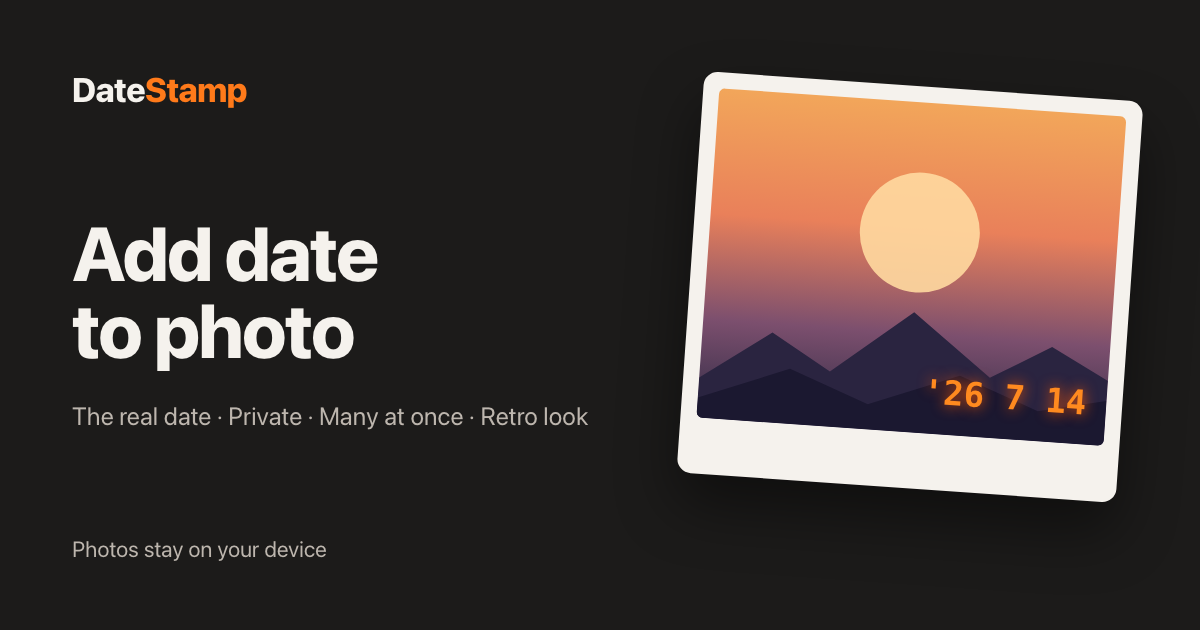
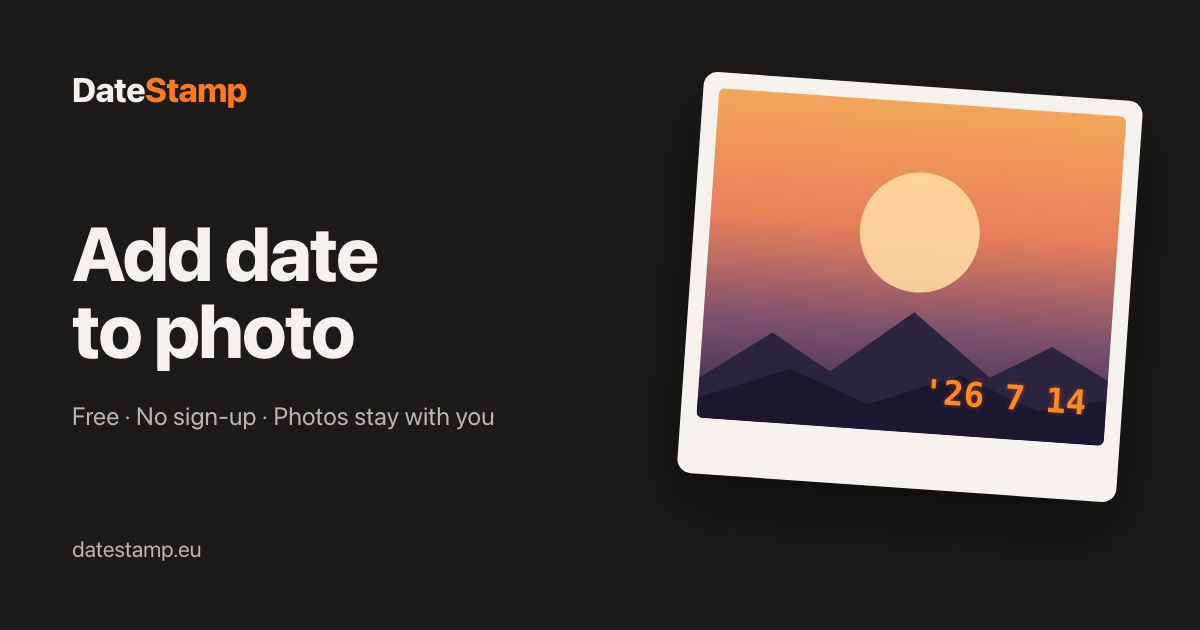
The share pictures show the current facts and the domain instead of repeating the privacy line

Changed region(s): [[0.0617, 0.6333, 0.4933, 0.6937], [0.0617, 0.8444, 0.2775, 0.9048], [0.7708, 0.6032, 0.925, 0.6635]]

diff --git a/CLAUDE.md b/CLAUDE.md
@@ -156,7 +156,7 @@ Options are remembered in `localStorage` (`datestamp:options`). Every access is 
 - **Titles ≤ 60 characters, descriptions 90–160** (a unit test enforces it in every locale): the search phrase first, then the benefit, then `| DateStamp`.
 - **Head (Base.astro):** canonical, hreflang for every locale + x-default, `robots max-image-preview:large`, Open Graph (site name, `og:locale` with region from `ogLocales`, alternates, 1200×630 image + alt), Twitter `summary_large_image`, icons (SVG, 32 px PNG, apple-touch, manifest), theme-color per scheme, a link to `llms.txt`.
 - **JSON-LD is one `@graph` per page** with stable `@id`s: `WebSite`, `WebApplication` (free, runs in the browser, featureList from the facts and steps), `WebPage` (breadcrumb on subpages), plus what the page passes as `schema` (Home: `FAQPage`; guides: `HowTo`). Never add a second ld+json block; pass nodes through `schema`. Do not invent facts (no fake ratings, no publisher we do not have).
-- **Share pictures:** `public/og/<locale>.png`, rendered from `src/pages/og/[locale].astro` (the home h1 and facts, a print with the retro date) by `npm run assets`. Re-run it after changing a home h1/facts or the favicon, and commit the PNGs.
+- **Share pictures:** `public/og/<locale>.png`, rendered from `src/pages/og/[locale].astro` (the home h1 and facts, the domain, a print with the retro date) by `npm run assets`. Re-run it after changing a home h1/facts or the favicon, and commit the PNGs.
 - **Logo:** the mark (`LogoMark.astro`, the favicon drawing inline, a thin ring for the dark frame) before the "Date**Stamp**" wordmark, in the navbar and the mobile menu. Change it together with `public/favicon.svg`.
 - **Favicon:** after a new icon, bump `ICON_VERSION` in Base.astro (the `?v=` on the icon links), or browsers keep showing the cached one. `public/favicon.svg` (the wordmark's D with the orange stamp in the corner) is the source of every icon PNG; the maskable icon keeps the art in the middle 80 %.
 - **AI:** `robots.txt` allows everything and names the AI crawlers (GPTBot, ClaudeBot, PerplexityBot, Google-Extended...); `llms.txt` describes the tool, privacy, every page in every language, the iPhone steps and the FAQ, built from the same strings. The FAQ is always open on the page (no accordion), so its answers are in the visible text that crawlers read. `robots.txt`, like `ads.txt`, counts only at the domain root, so with the own domain.
